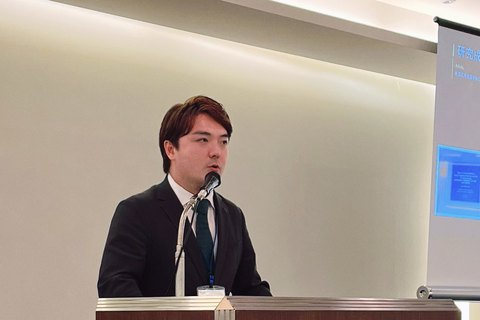
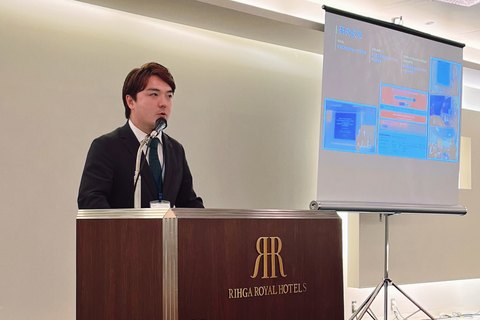
更正 CV 交换生时间为 Sep 2010 - Jun 2011；Talk 14 缩略图重新取景，完整显示人物与讲台酒店标识

diff --git a/cv.html b/cv.html
@@ -5,7 +5,7 @@
   <meta name="viewport" content="width=device-width, initial-scale=1.0">
   <title>CV - Salvador Wang</title>
   <link rel="stylesheet" href="https://fonts.googleapis.com/css2?family=Archivo:wght@400;500;700;900&display=swap">
-  <link rel="stylesheet" href="css/site.css?v=12">
+  <link rel="stylesheet" href="css/site.css?v=13">
 </head>
 <body data-page="cv.html">
   <header id="masthead"></header>
@@ -30,7 +30,7 @@
               Tohoku University, Sendai, Japan</td>
         </tr>
         <tr>
-          <td>Jun 2010 – Sep 2010</td>
+          <td>Sep 2010 – Jun 2011</td>
           <td>Exchange student</td>
           <td>Department of Humanity,
               Universidad Veracruzana, Xalapa, Mexico</td>

diff --git a/publications.html b/publications.html
@@ -5,7 +5,7 @@
   <meta name="viewport" content="width=device-width, initial-scale=1.0">
   <title>Publications - Salvador Wang</title>
   <link rel="stylesheet" href="https://fonts.googleapis.com/css2?family=Archivo:wght@400;500;700;900&display=swap">
-  <link rel="stylesheet" href="css/site.css?v=12">
+  <link rel="stylesheet" href="css/site.css?v=13">
 </head>
 <body data-page="publications.html">
   <header id="masthead"></header>

diff --git a/photos.html b/photos.html
@@ -5,7 +5,7 @@
   <meta name="viewport" content="width=device-width, initial-scale=1.0">
   <title>Photos - Salvador Wang</title>
   <link rel="stylesheet" href="https://fonts.googleapis.com/css2?family=Archivo:wght@400;500;700;900&display=swap">
-  <link rel="stylesheet" href="css/site.css?v=12">
+  <link rel="stylesheet" href="css/site.css?v=13">
 </head>
 <body data-page="photos.html">
   <header id="masthead"></header>

diff --git a/talks.html b/talks.html
@@ -5,7 +5,7 @@
   <meta name="viewport" content="width=device-width, initial-scale=1.0">
   <title>Talks - Salvador Wang</title>
   <link rel="stylesheet" href="https://fonts.googleapis.com/css2?family=Archivo:wght@400;500;700;900&display=swap">
-  <link rel="stylesheet" href="css/site.css?v=12">
+  <link rel="stylesheet" href="css/site.css?v=13">
 </head>
 <body data-page="talks.html">
   <header id="masthead"></header>

diff --git a/index.html b/index.html
@@ -5,7 +5,7 @@
   <meta name="viewport" content="width=device-width, initial-scale=1.0">
   <title>Home - Salvador Wang</title>
   <link rel="stylesheet" href="https://fonts.googleapis.com/css2?family=Archivo:wght@400;500;700;900&display=swap">
-  <link rel="stylesheet" href="css/site.css?v=12">
+  <link rel="stylesheet" href="css/site.css?v=13">
 </head>
 <body data-page="index.html">
   <header id="masthead"></header>

diff --git a/aoa.html b/aoa.html
@@ -5,7 +5,7 @@
   <meta name="viewport" content="width=device-width, initial-scale=1.0">
   <title>AOA - Salvador Wang</title>
   <link rel="stylesheet" href="https://fonts.googleapis.com/css2?family=Archivo:wght@400;500;700;900&display=swap">
-  <link rel="stylesheet" href="css/site.css?v=12">
+  <link rel="stylesheet" href="css/site.css?v=13">
 </head>
 <body data-page="aoa.html">
   <header id="masthead"></header>
